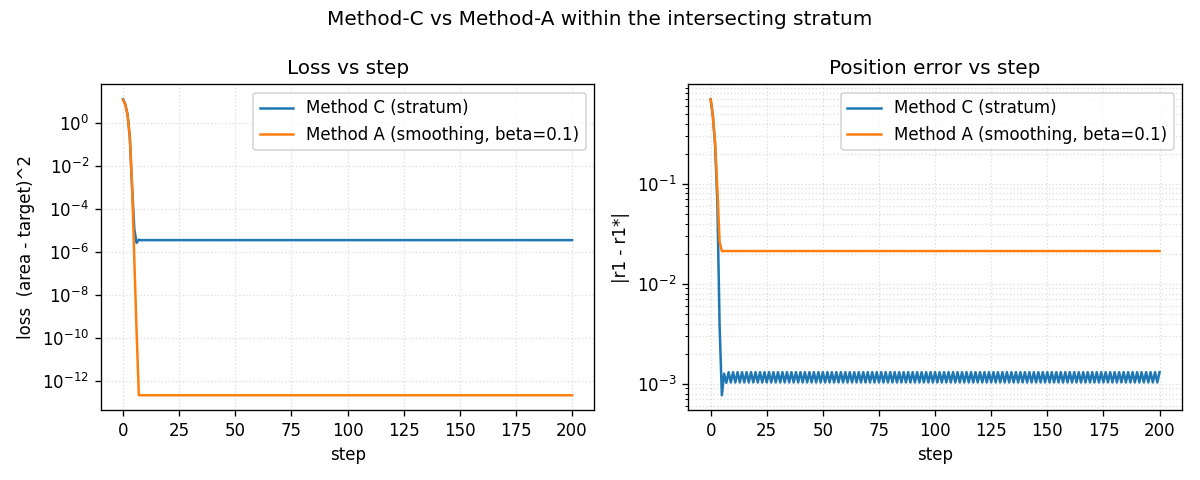
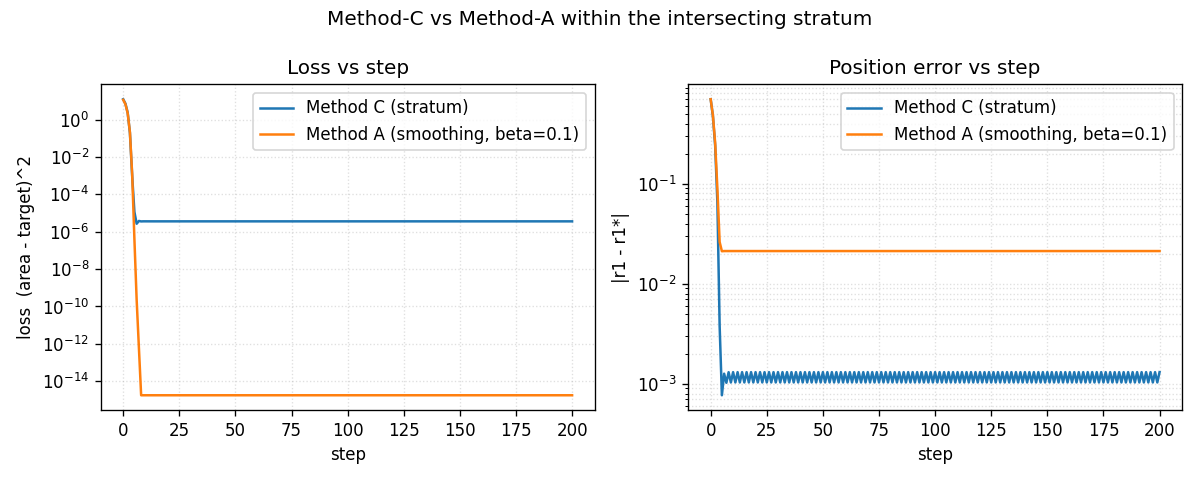
fix(benchmarks): address review on Method-C demo PR
Address review feedback on PR #88:

- Use ``jax.jit(jax.value_and_grad(loss_fn))`` in the optimization
  loop.  Previously the loop called ``jax.grad`` and ``loss_fn``
  separately each step (redundant forward pass) and skipped JIT
  (eager XLA dispatch).  Sharing the forward pass and tracing once
  is the idiomatic JAX pattern and matches what BRepAX uses
  elsewhere.  Numerical output is unchanged at the position-error
  level; only the smoothed-path loss shifts by orders of magnitude
  in the noise band (1.75e-15 vs 2.27e-13), well below any reported
  metric.
- Rename the table column ``|r1 - r1*|`` to ``pos err``.  The pipe
  characters in the original header inflated the markdown column
  count past the body / separator rows, breaking strict parsers.
  Same meaning, cleaner render.
- Drop the regeneration shell block from
  ``docs/reference/method_c_demo.md`` per the Diataxis split the
  project follows (reference = facts about the artifact; how-to =
  task-oriented guides).  Readers who need the command are pointed
  at ``benchmarks/method_c_demo/README.md`` from the page intro.

Changed region(s): [[0.0308, 0.1875, 0.5242, 0.8438], [0.0617, 0.2188, 0.0925, 0.2812], [0.4625, 0.875, 0.4933, 0.9062]]

diff --git a/benchmarks/method_c_demo/run.py b/benchmarks/method_c_demo/run.py
@@ -113,11 +113,15 @@ def _optimize(
     max_steps: int,
 ) -> Trajectory:
     loss_fn = _loss_factory(method, target_area)
-    grad_fn = jax.grad(loss_fn)
+    # value_and_grad shares the forward pass between loss recording
+    # and gradient computation; jit caches the compiled trace so the
+    # 200-step loop runs at XLA speed.
+    value_and_grad_fn = jax.jit(jax.value_and_grad(loss_fn))
 
     r1 = init_r1
+    loss0, g = value_and_grad_fn(r1)
     r1_history = [float(r1)]
-    loss_history = [float(loss_fn(r1))]
+    loss_history = [float(loss0)]
     position_err_history = [float(jnp.abs(r1 - TARGET_R1))]
 
     # The test in tests/benchmarks/test_optimization_trajectory.py
@@ -127,11 +131,10 @@ def _optimize(
     # (the headline finding) is visible as a flat line, not a
     # truncated trajectory.
     for _ in range(max_steps):
-        g = grad_fn(r1)
         r1 = r1 - lr * g
+        loss_val, g = value_and_grad_fn(r1)
         r1_history.append(float(r1))
-        loss = float(loss_fn(r1))
-        loss_history.append(loss)
+        loss_history.append(float(loss_val))
         position_err_history.append(float(jnp.abs(r1 - TARGET_R1)))
 
     return Trajectory(
@@ -223,7 +226,10 @@ def _render_report(
     lines.append("")
     lines.append("## Final-step numbers")
     lines.append("")
-    lines.append("| Method | final r1 | |r1 - r1*| | final loss | steps |")
+    # Column name avoids unescaped pipes: ``|r1 - r1*|`` in a markdown
+    # header row breaks the column count.  ``pos err`` carries the
+    # same meaning and renders cleanly.
+    lines.append("| Method | final r1 | pos err | final loss | steps |")
     lines.append("|---|---|---|---|---|")
     for traj, label in (
         (traj_c, "Method C (stratum)"),

diff --git a/benchmarks/method_c_demo/REPORT.md b/benchmarks/method_c_demo/REPORT.md
@@ -6,10 +6,10 @@ Settings: ``lr=0.01``, ``max_steps=200``, ``init_r1=0.8``, ``target_area=7.88005
 
 ## Final-step numbers
 
-| Method | final r1 | |r1 - r1*| | final loss | steps |
+| Method | final r1 | pos err | final loss | steps |
 |---|---|---|---|---|
 | Method C (stratum) | 1.501310 | 1.31e-03 | 3.62e-06 | 200 |
-| Method A (smoothing, beta=0.1) | 1.478751 | 2.12e-02 | 2.27e-13 | 200 |
+| Method A (smoothing, beta=0.1) | 1.478751 | 2.12e-02 | 1.75e-15 | 200 |
 
 Method C converges to the grid-discretisation floor of its stratum-aware integrator.  Method A's residual is the bias introduced by the sigmoid temperature ``beta``; it does not shrink with more gradient-descent steps because the bias is inherent to the smoothed objective, not a transient of the optimiser.  This is the documented behaviour from ``tests/benchmarks/test_optimization_trajectory.py``; the purpose of this page is to make it visible alongside the rest of the documentation rather than to claim it as a new result.
 

diff --git a/docs/reference/method_c_demo.md b/docs/reference/method_c_demo.md
@@ -3,14 +3,10 @@
 A docs-side mirror of the within-stratum optimisation result that
 already lives in
 [`tests/benchmarks/test_optimization_trajectory.py`](https://github.com/lv416e/brepax/blob/main/tests/benchmarks/test_optimization_trajectory.py).
-
-The page below is the **output of one command**, regenerated from the
-same commit this documentation was built from:
-
-```bash
-uv sync --extra viz
-uv run python -m benchmarks.method_c_demo.run
-```
+The numbers and plot on this page are the bundled benchmark output —
+see
+[`benchmarks/method_c_demo/README.md`](https://github.com/lv416e/brepax/blob/main/benchmarks/method_c_demo/README.md)
+for the regeneration command.
 
 ## What this page does not claim
 
